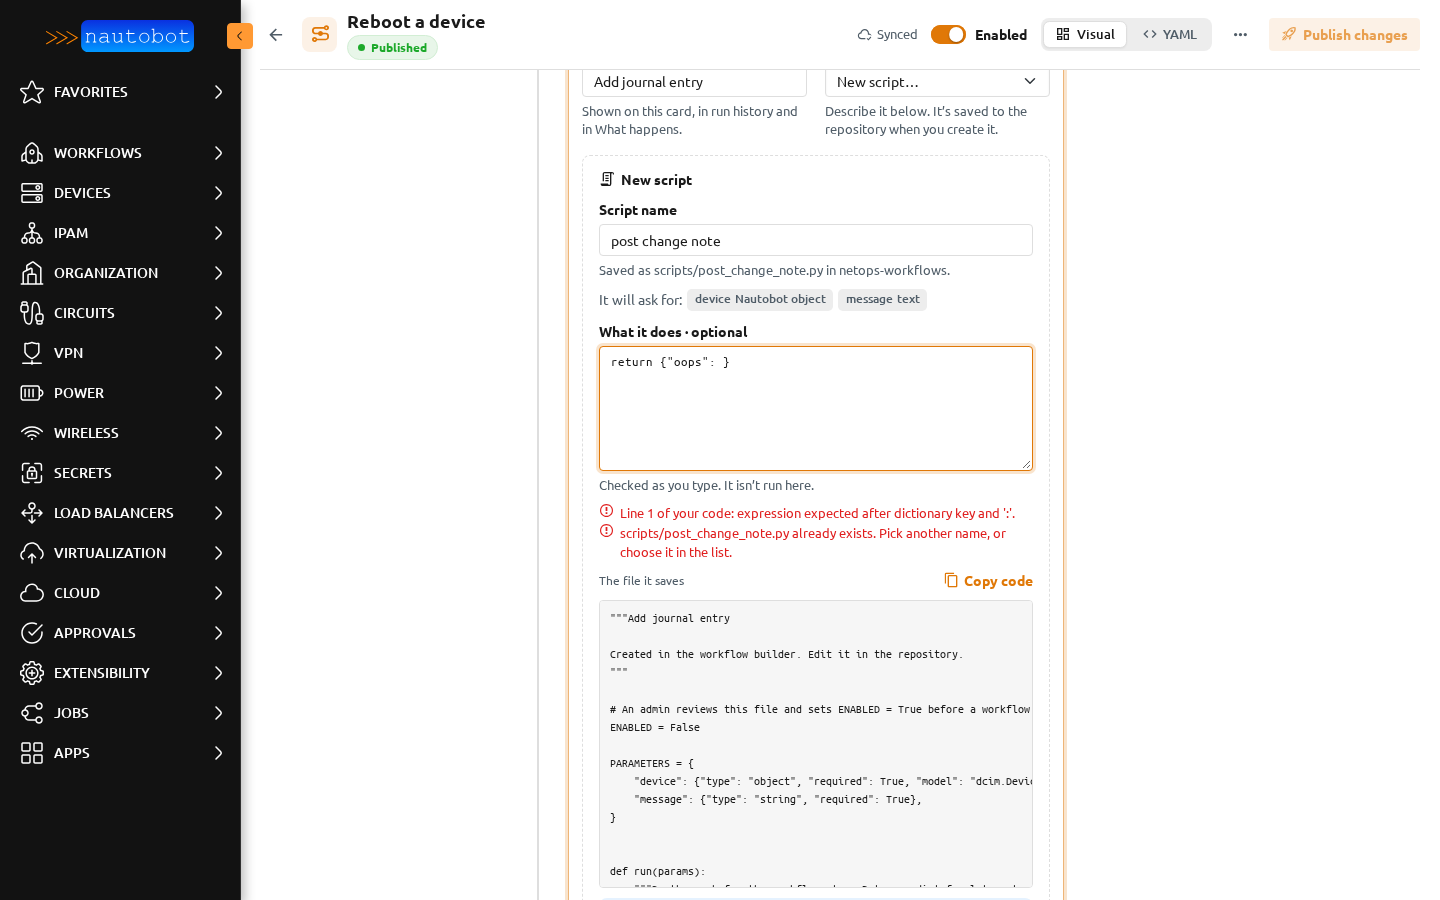
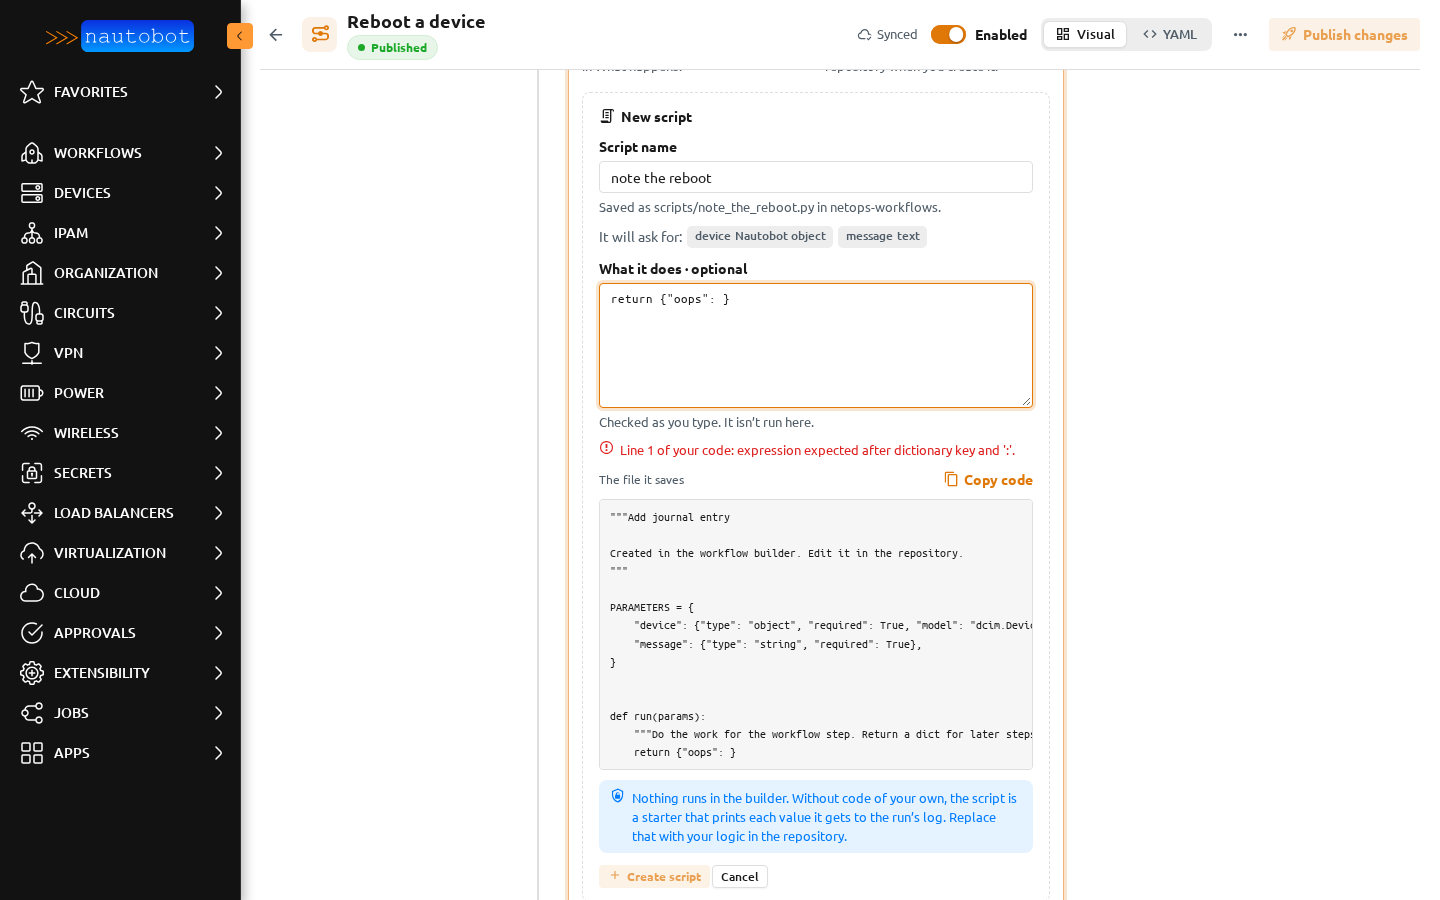
Starter wording in the new-script panel; retake publishing and new-script screenshots (round 3)

diff --git a/nautobot_workflow_engine/static/nautobot_workflow_engine/js/builder/studio.js b/nautobot_workflow_engine/static/nautobot_workflow_engine/js/builder/studio.js
@@ -1529,7 +1529,7 @@ function newScriptPanel(phase, action, index) {
         canWrite
             ? h("div", { class: "nwe-field" }, [
                 h("label", { class: "form-label", for: "nwe-ns-body", text: "What it does · optional" }),
-                h("textarea", { id: "nwe-ns-body", class: "form-control nwe-code nwe-ns-body", rows: "6", "data-ns": "body", spellcheck: "false", placeholder: "Python for the inside of run(params). Leave it empty for a placeholder that does nothing yet.", value: draft.body || "" }),
+                h("textarea", { id: "nwe-ns-body", class: "form-control nwe-code nwe-ns-body", rows: "6", "data-ns": "body", spellcheck: "false", placeholder: "Python for the inside of run(params). Leave it empty for a starter that prints each value it gets.", value: draft.body || "" }),
                 h("div", { class: "form-text", text: "Checked as you type. It isn’t run here." }),
             ])
             : h("p", { class: "nwe-muted small mb-2", text: "You can’t create scripts. Copy the code below and send it to an admin, or ask for the “Write scripts” permission." }),
@@ -1539,7 +1539,7 @@ function newScriptPanel(phase, action, index) {
             h("button", { type: "button", class: "nwe-link", "data-action": "ns-copy" }, [icon("content-copy"), "Copy code"]),
         ]),
         h("pre", { class: "nwe-ns-code", id: "nwe-ns-code", tabindex: "0", "aria-label": "Script code, read-only" }),
-        h("div", { class: "nwe-ns-note" }, [icon("shield-lock-outline"), h("span", { text: "Nothing runs in the builder. The script is saved to the repository as a starter that prints each value it gets to the run’s log. Replace that with your logic in the repository." })]),
+        h("div", { class: "nwe-ns-note" }, [icon("shield-lock-outline"), h("span", { text: "Nothing runs in the builder. Without code of your own, the script is a starter that prints each value it gets to the run’s log. Replace that with your logic in the repository." })]),
         repoMissing ? h("div", { class: "nwe-ns-problem" }, [icon("alert-circle-outline"), "Choose the repository on Details first."]) : null,
         h("div", { class: "d-flex gap-2 mt-2" }, [
             canWrite ? h("button", { type: "button", class: "btn btn-sm nwe-btn-accent", id: "nwe-ns-create", "data-action": "ns-create", "data-phase": phase, "data-index": String(index) }, [icon("plus"), draft.busy ? "Creating…" : "Create script"]) : null,

diff --git a/nautobot_workflow_engine/script_files.py b/nautobot_workflow_engine/script_files.py
@@ -1,4 +1,4 @@
-"""Placeholder scripts written from the builder.
+"""Starter scripts written from the builder.
 
 The builder never runs, imports, or evaluates this code. It is only parsed with
 :func:`ast.parse` to check it. A new script is a starter: unless the person writes
@@ -19,8 +19,8 @@ NO_PERMISSION_MESSAGE = (
     "You need the “Write scripts” permission to create scripts. Copy the code and send it to an admin instead."
 )
 STARTER_NOTE = (
-    "Nothing runs in the builder. The script is saved to the repository as a starter: it prints each value it "
-    "gets to the run's log. Replace that with the real work in the repository."
+    "Nothing runs in the builder. Without code of your own, the script is a starter that prints each value it "
+    "gets to the run's log. Replace that with your logic in the repository."
 )
 MAX_BODY_CHARS = 20000
 _ALLOWED_TOP = ("PARAMETERS",)
